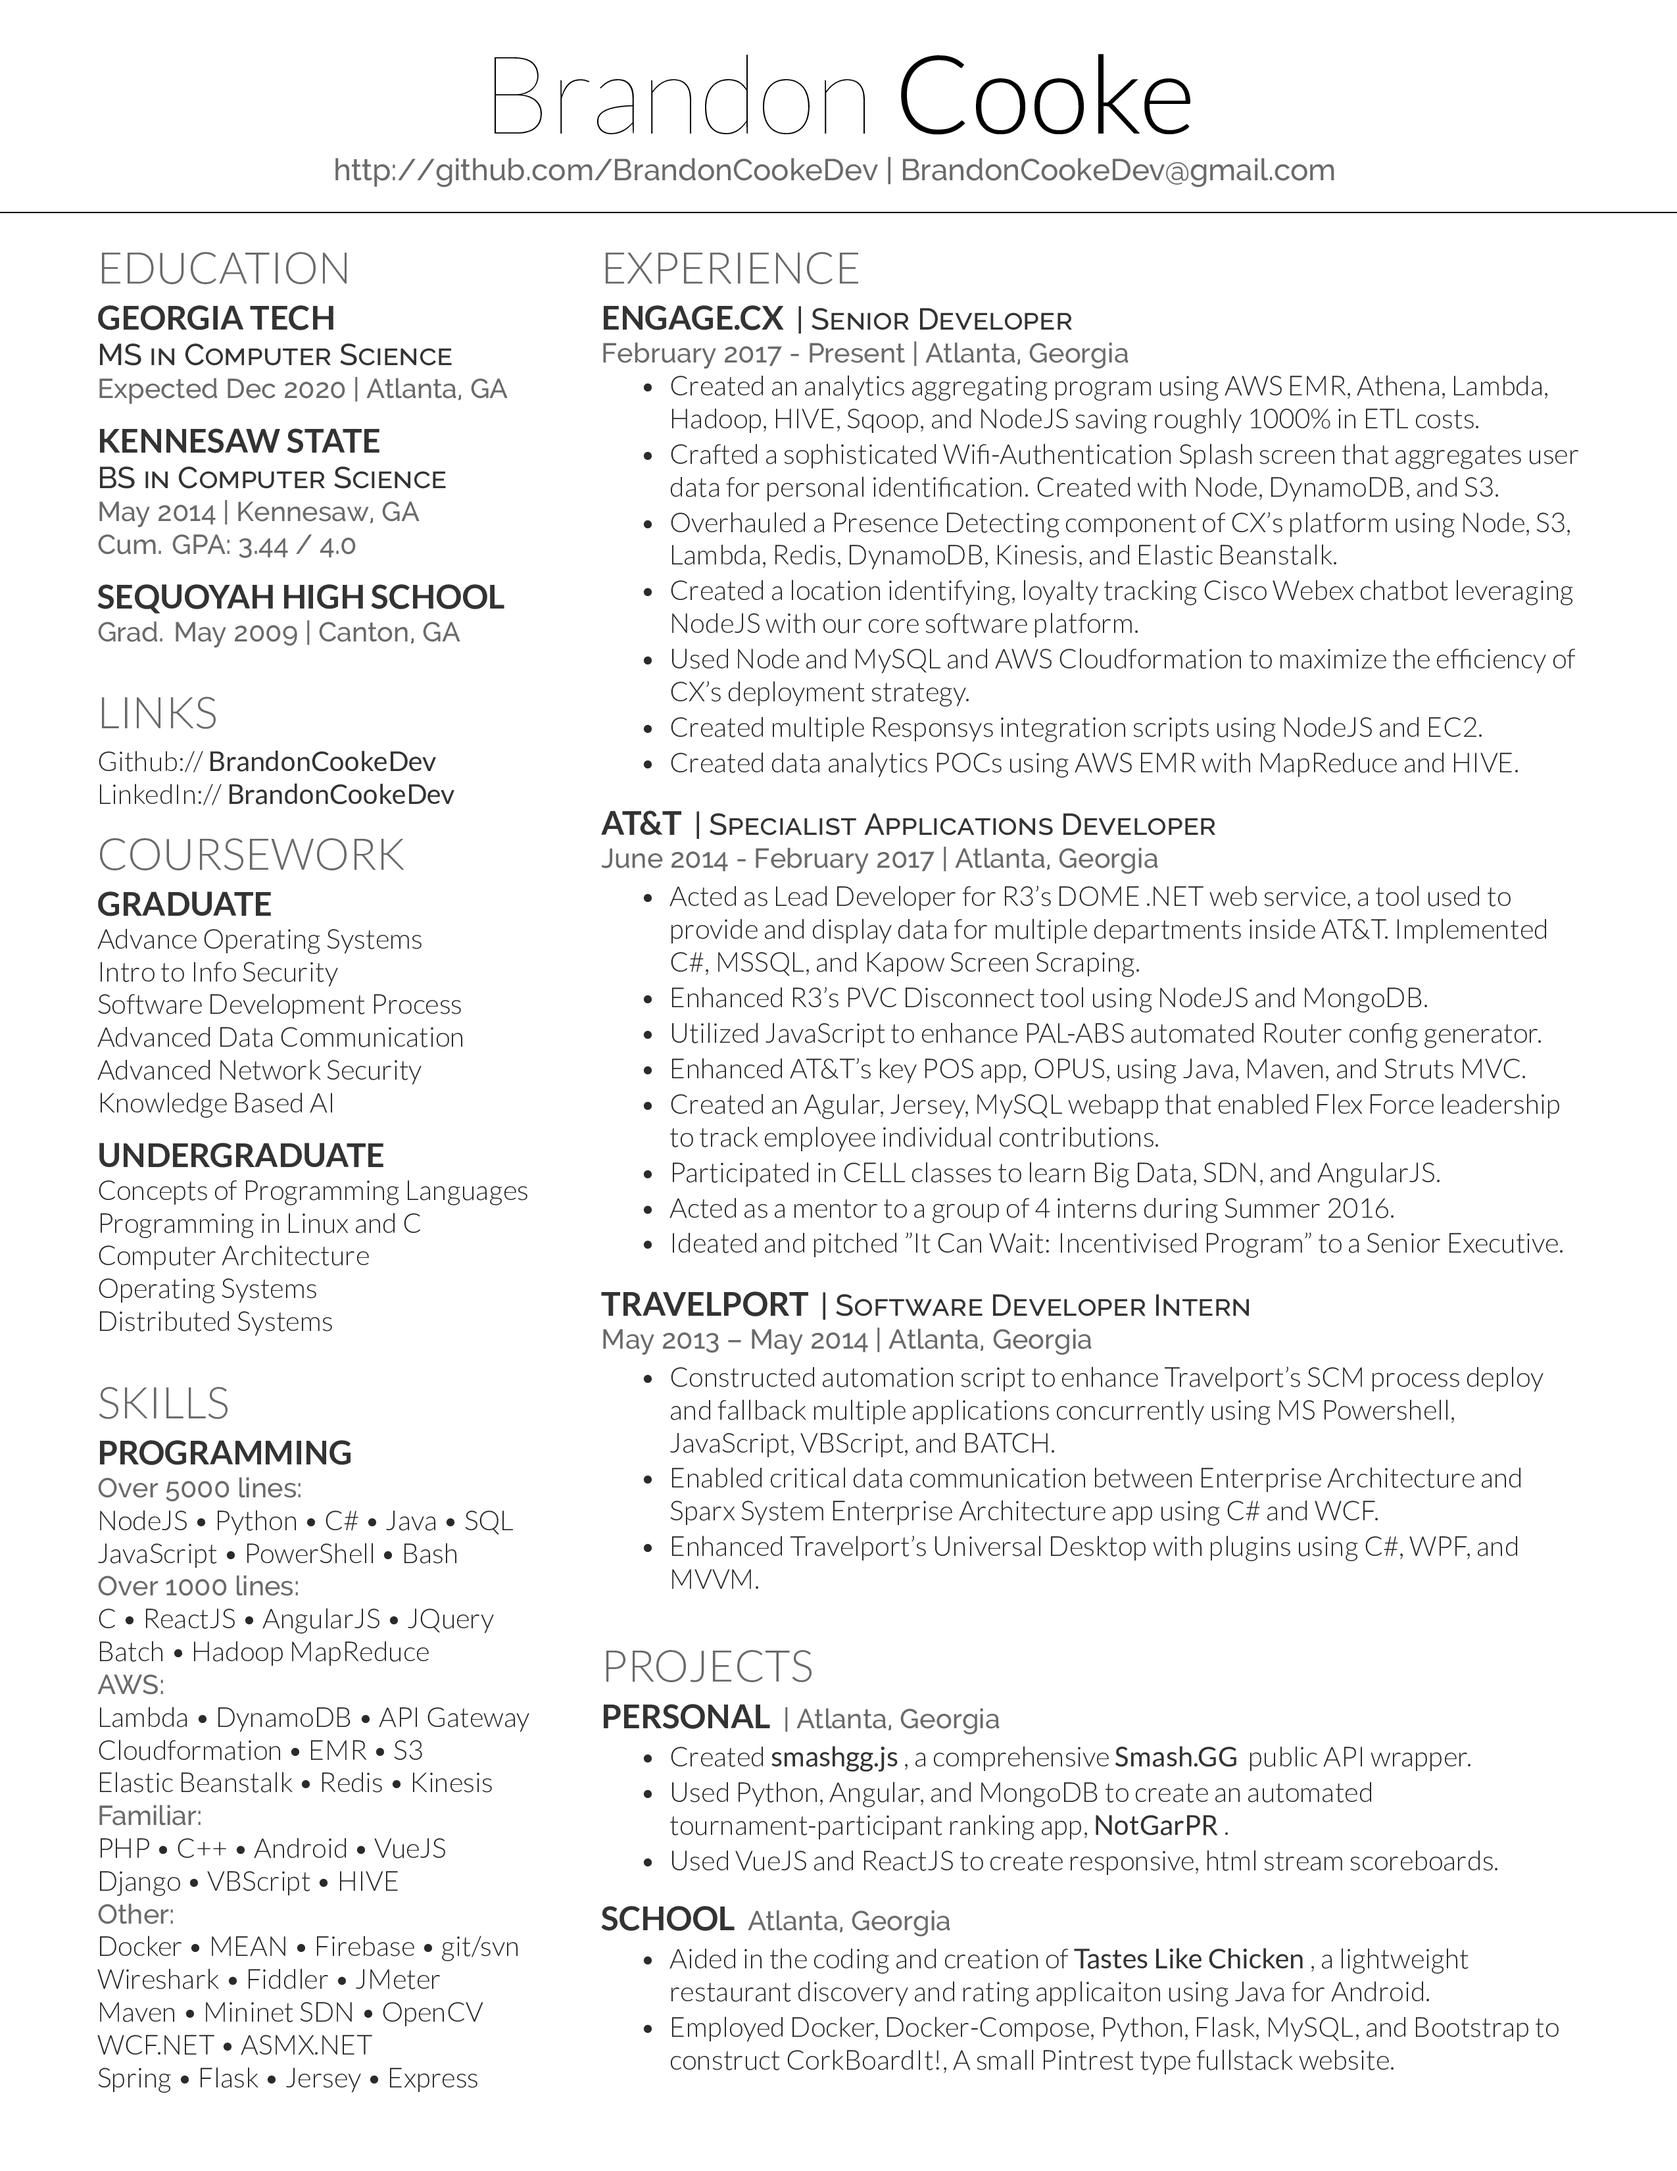
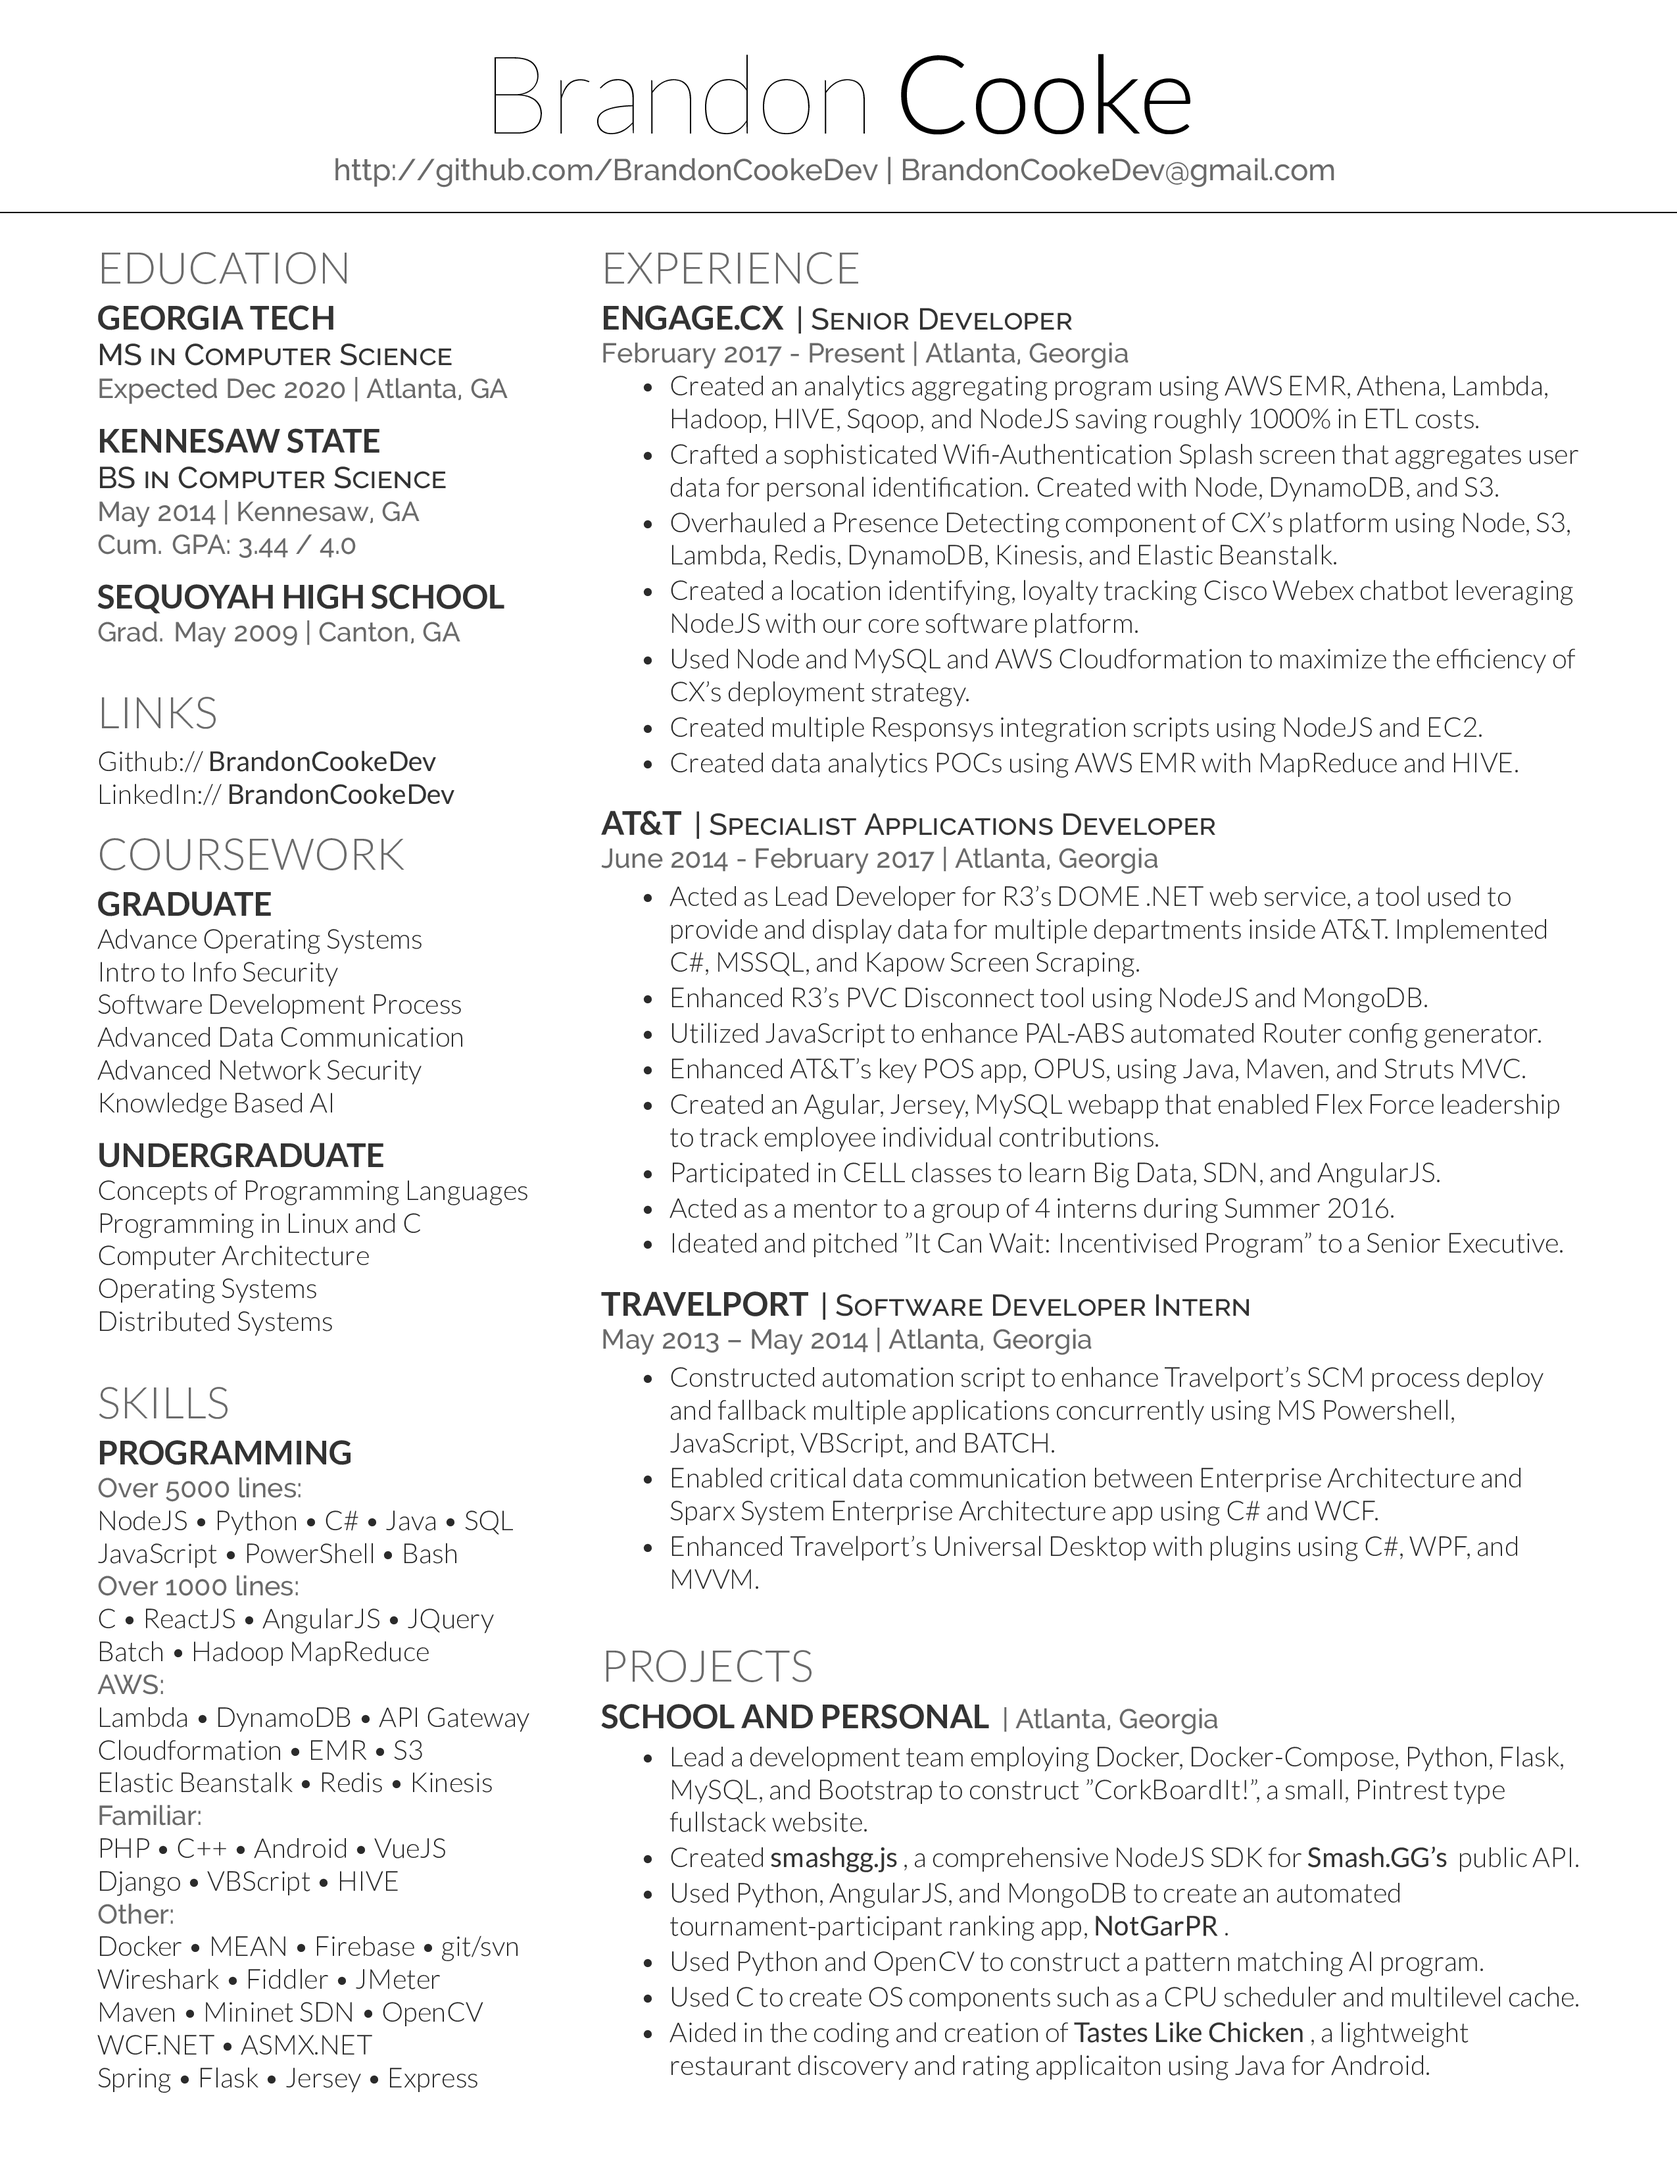
Updated projects area to contain more relevant projects

Changed region(s): [[0.3718, 0.7803, 0.8984, 0.9676]]

diff --git a/deedy_resume-openfont.tex b/deedy_resume-openfont.tex
@@ -218,20 +218,15 @@ Spring \textbullet{} Flask \textbullet{} Jersey \textbullet{} Express
 %%%%%%%%%%%%%%%%%%%%%%%%%%%%%%%%%%%%%%
 
 \section{Projects}
-\runsubsection{Personal}
+\runsubsection{School and Personal}
 \location{| Atlanta, Georgia}
 \begin{tightemize} 
-\item Created \href{http://npmjs.com/package/smashgg.js}{\custombold{smashgg.js}}, a comprehensive \href{www.smash.gg}{\custombold{Smash.GG}} public API wrapper. 
-\item Used Python, Angular, and MongoDB to create an automated tournament-participant ranking app, \href{https://notgarpr.com}{\custombold{NotGarPR}}.
-\item Used VueJS and ReactJS to create responsive, html stream scoreboards. 
-\end{tightemize}
-\sectionsep
-
-\runsubsection{School}
-\location{Atlanta, Georgia}
-\begin{tightemize}
+\item Lead a development team employing Docker, Docker-Compose, Python, Flask, MySQL, and Bootstrap to construct "CorkBoardIt!", a small, Pintrest type fullstack website. 
+\item Created \href{http://npmjs.com/package/smashgg.js}{\custombold{smashgg.js}}, a comprehensive NodeJS SDK for \href{www.smash.gg}{\custombold{Smash.GG's}} public API. 
+\item Used Python, AngularJS, and MongoDB to create an automated tournament-participant ranking app, \href{https://notgarpr.com}{\custombold{NotGarPR}}.
+\item Used Python and OpenCV to construct a pattern matching AI program.
+\item Used C to create OS components such as a CPU scheduler and multilevel cache.
 \item Aided in the coding and creation of \href{https://play.google.com/store/apps/details?id=com.gmail.japa.arialdis.tasteslikechickenlite\&hl=en}{\custombold{Tastes Like Chicken}}, a lightweight restaurant discovery and rating applicaiton using Java for Android.
-\item Employed Docker, Docker-Compose, Python, Flask, MySQL, and Bootstrap to construct CorkBoardIt!, A small Pintrest type fullstack website. 
 \end{tightemize}
 \sectionsep
 
